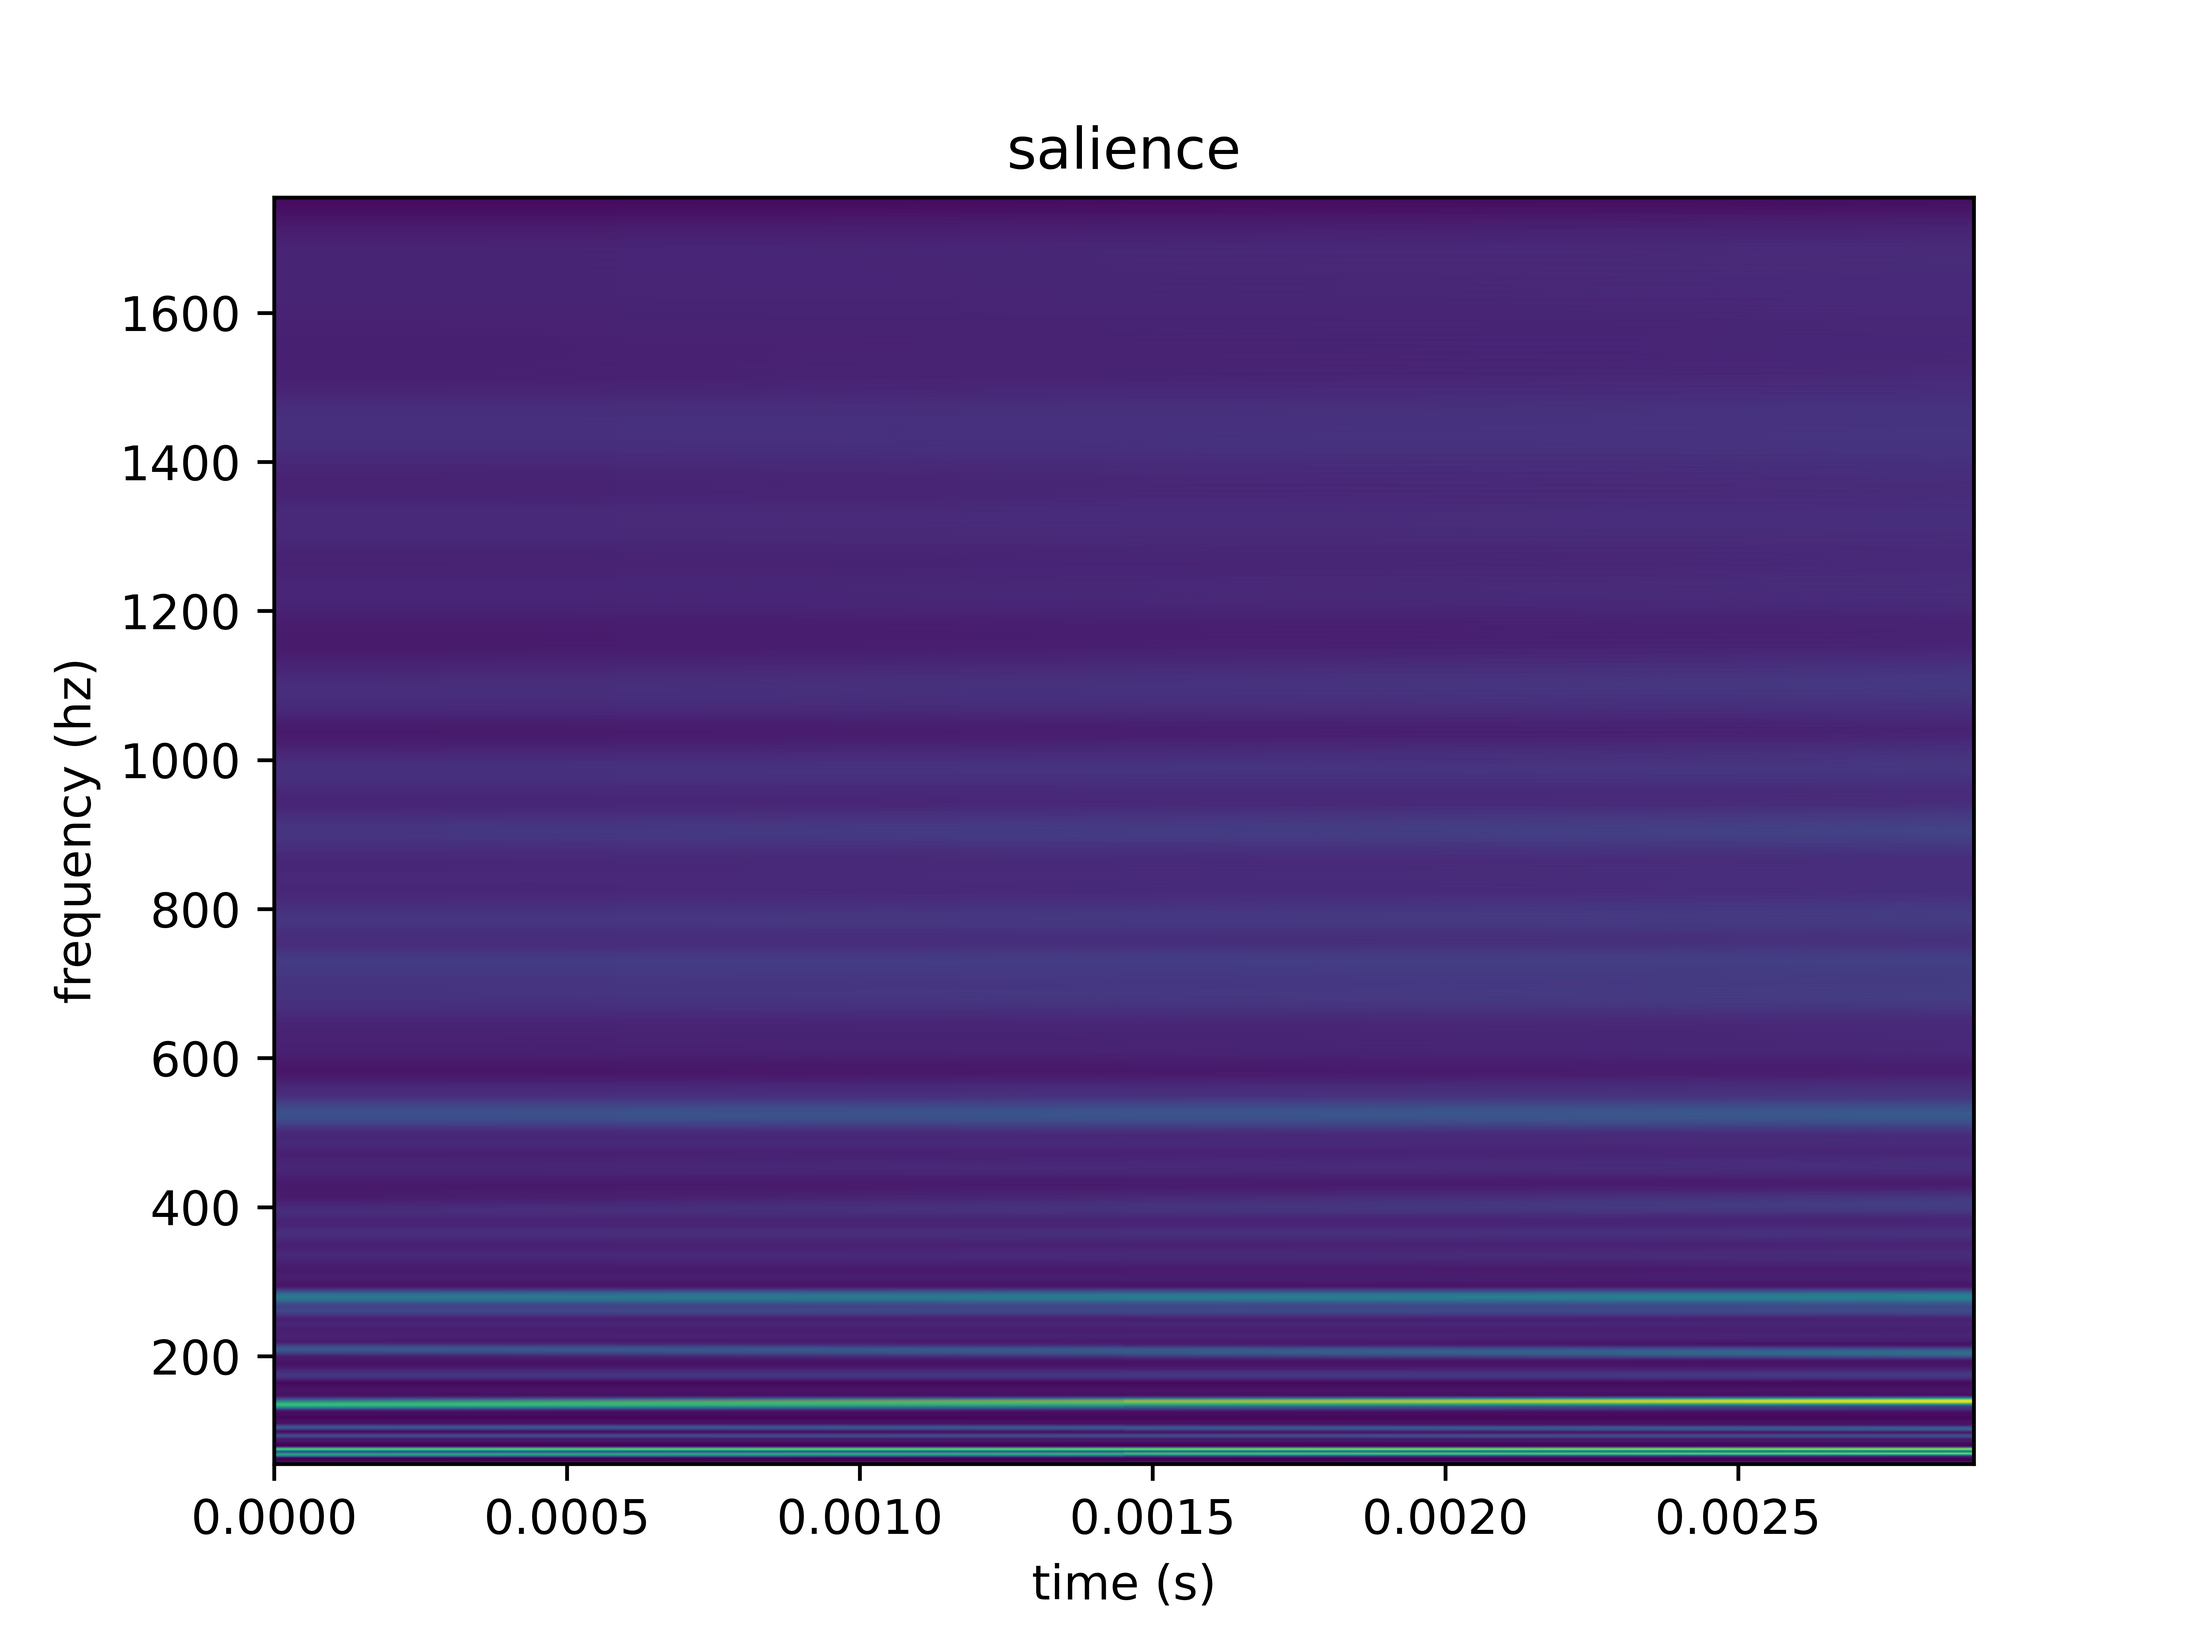
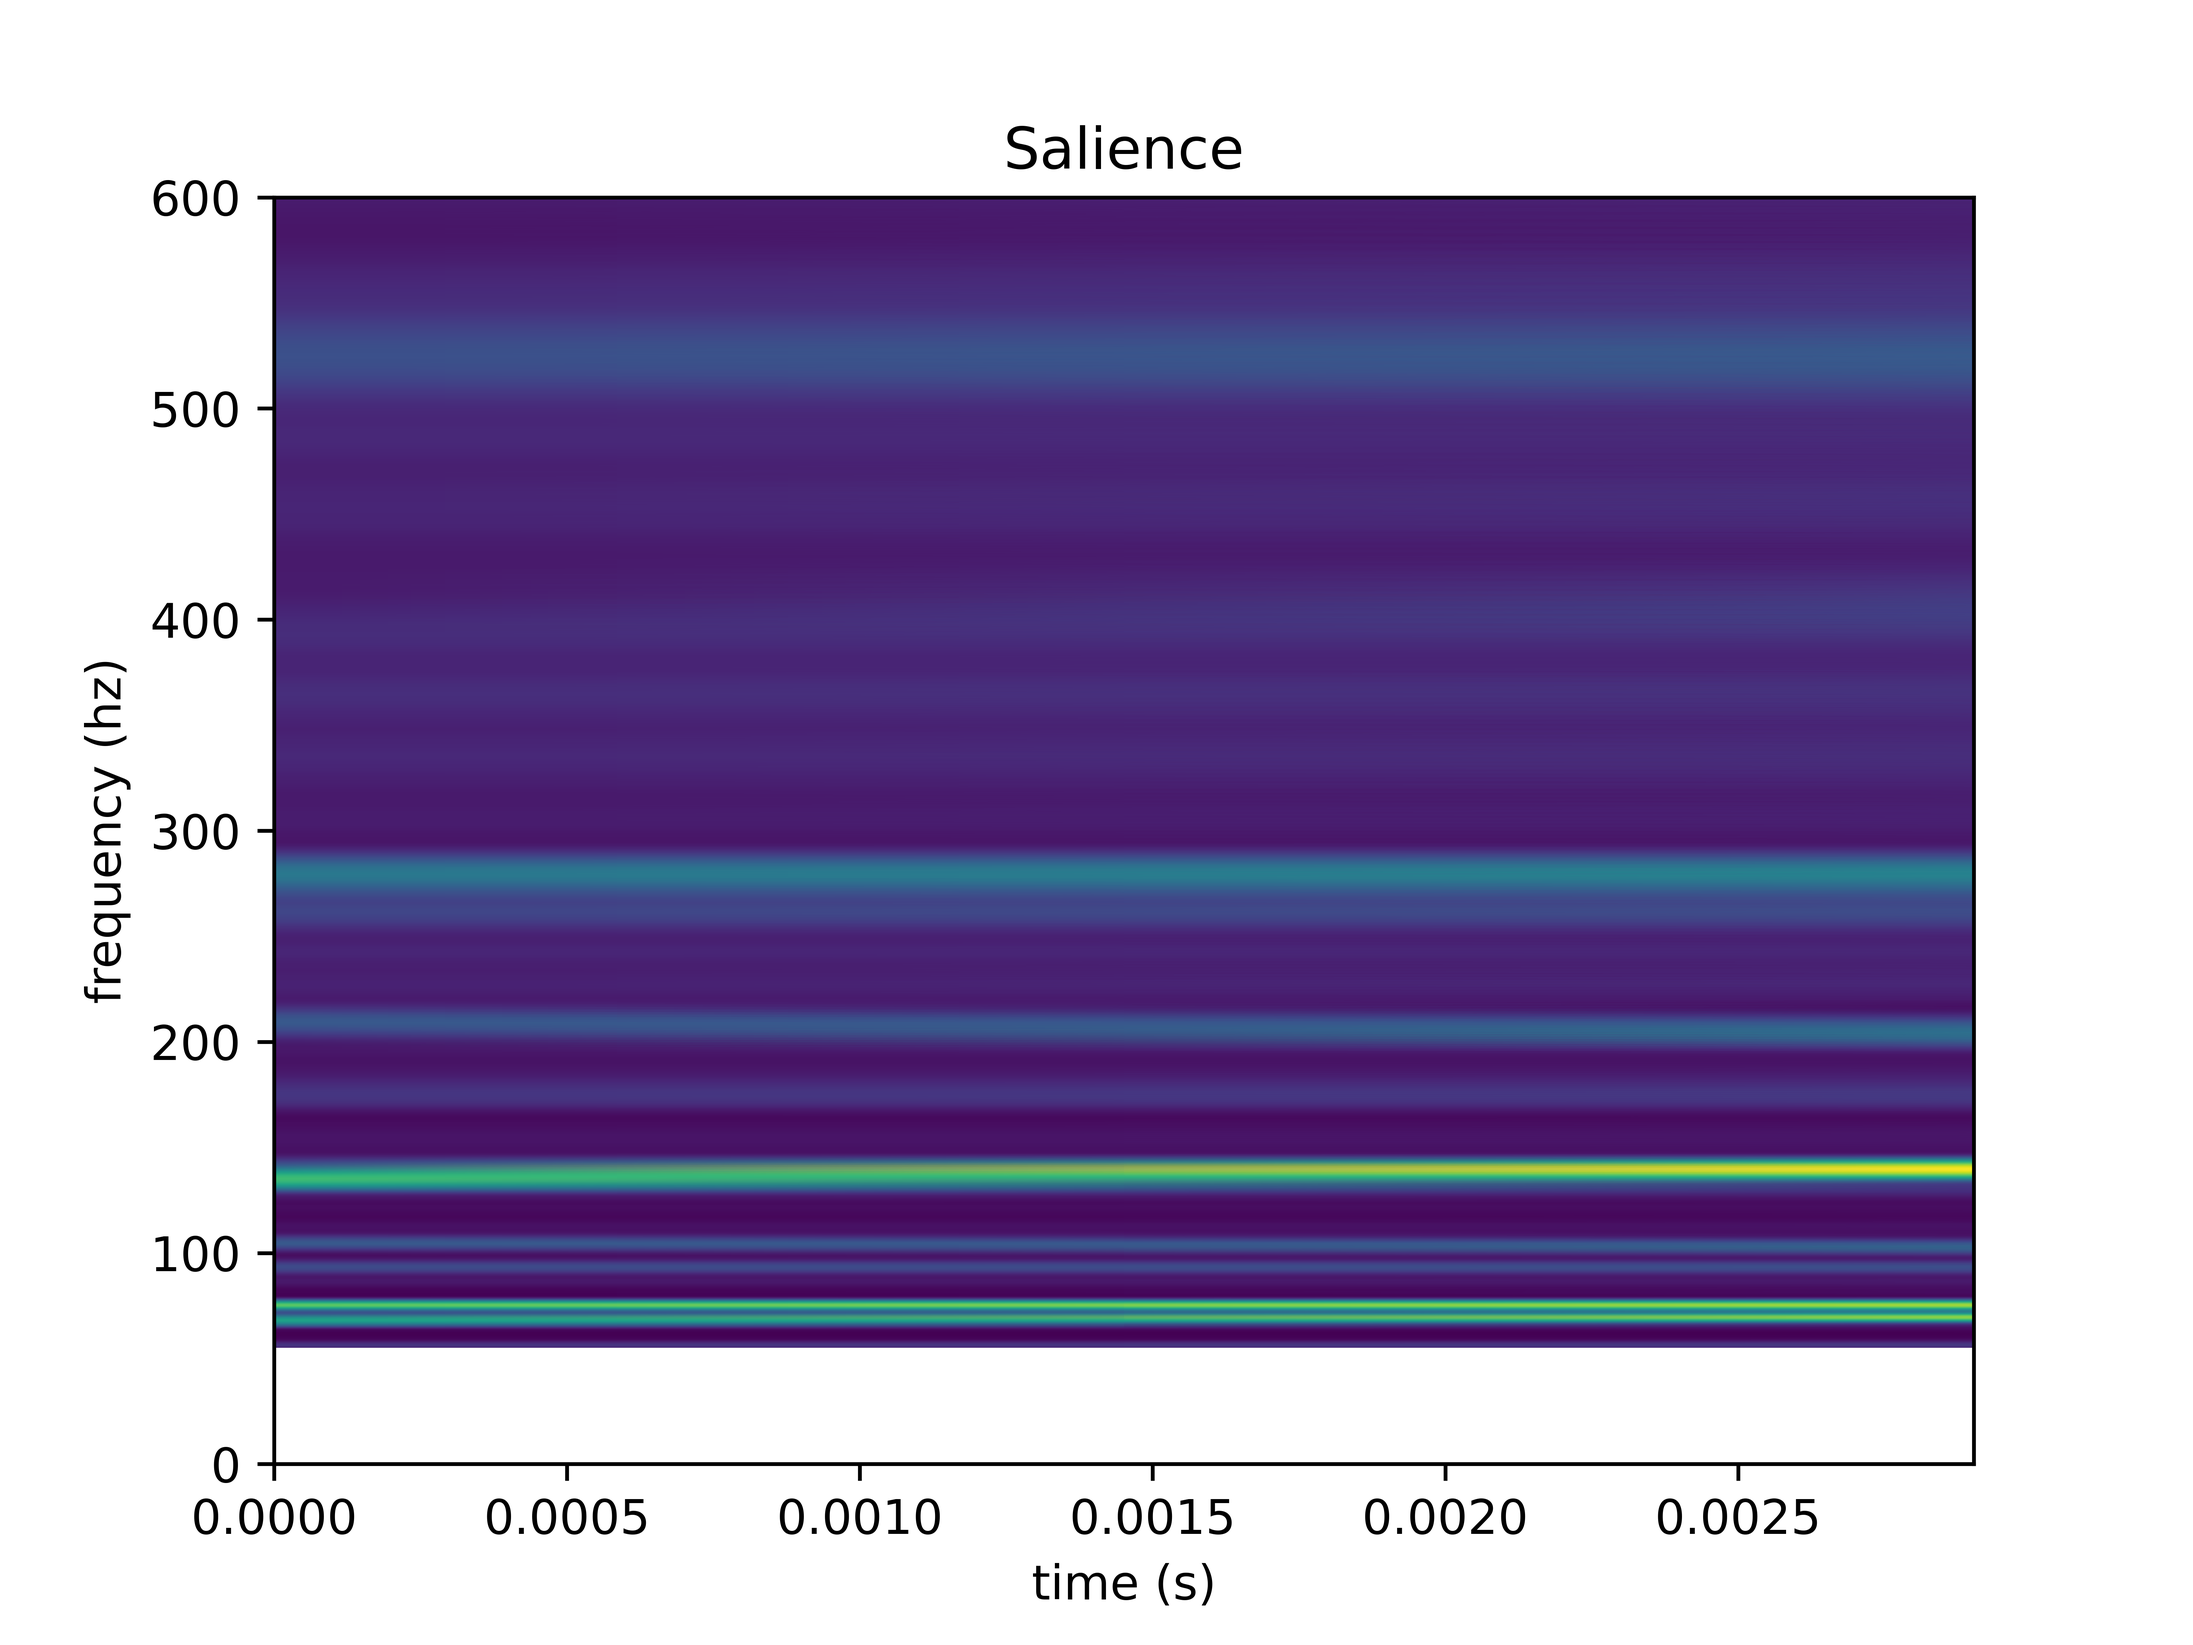
set y limit on salience plot

diff --git a/salience/salience.py b/salience/salience.py
@@ -104,6 +104,7 @@ def plot_saliences(t, saliences):
     plt.pcolormesh(t, frequencies, saliences, shading='gouraud')
     plt.title('Salience')
     plt.ylabel('frequency (hz)')
+    plt.ylim([0, 600])
     plt.xlabel('time (s)')
     plt.savefig('./output/salience', dpi=1024)
 
@@ -111,7 +112,7 @@ def plot_saliences(t, saliences):
 def compute_saliences(f, t, zxx):
     # take only magnitudes
     zxx = np.abs(zxx)
-    t_size = 2
+    t_size = 200
     saliences = np.zeros((n_bins, t_size))
     for i in range(t_size):
         start_time = time.time()
